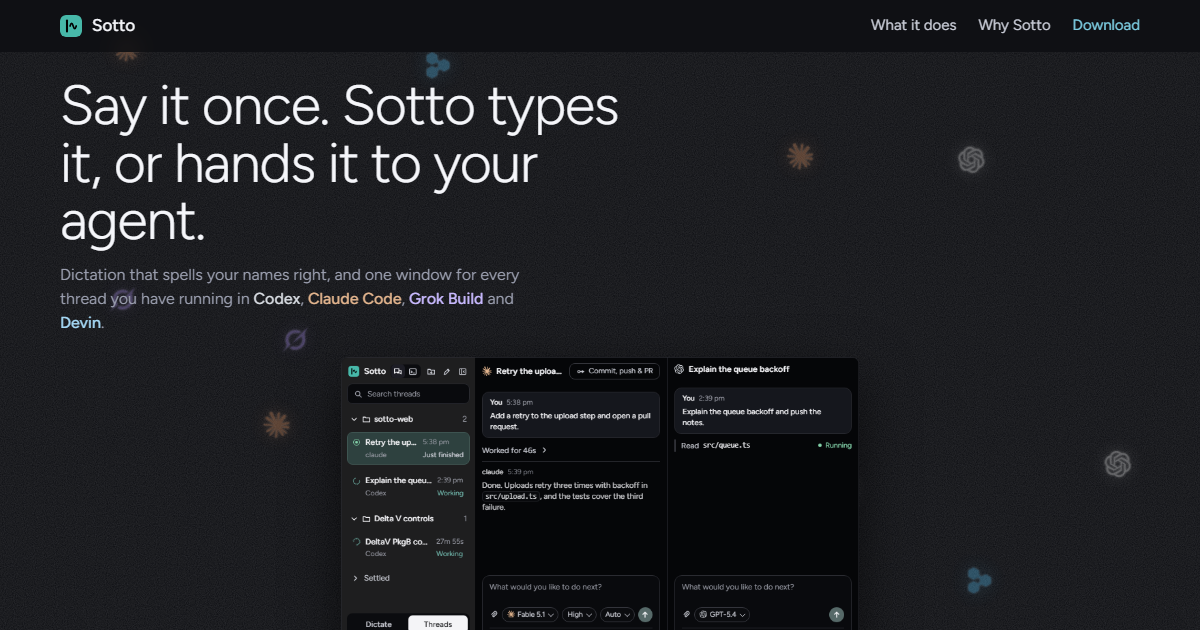
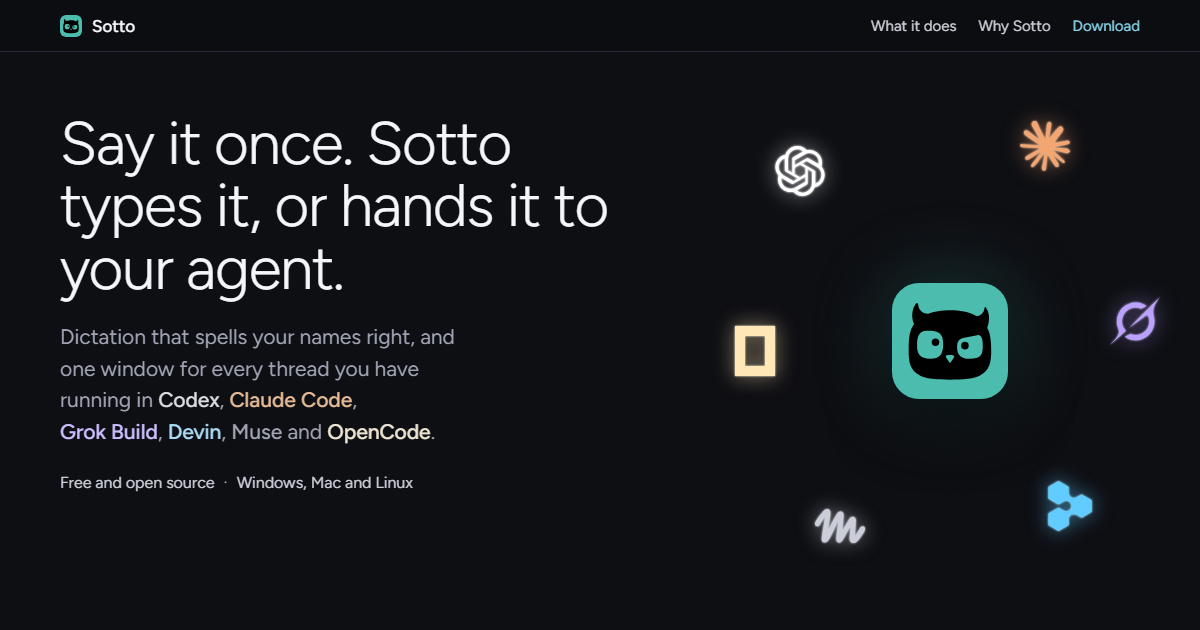
Show the owl and all six providers on the site
The app's mark is now the owl, so the site's icon, favicon, header, mock
app window, dictation pill and the hero's intro tile all draw it from
build/icon.svg, with the eyes and beak cut out so the tile shows through.
The intro opens the owl's eyes where it used to draw the old wave.

Muse and OpenCode join Codex, Claude Code, Grok Build and Devin everywhere
the page names or draws a provider: the lede, the meta and preview
descriptions, the sidebar vignette and the "Why Sotto" pair. Their marks are
the app's (ProviderMark.tsx). OpenCode takes the app's colour; Muse has no
colour token in the app, which draws its mark in muted text, so the site
uses its own muted grey for it.

The intro now flies in one mark per provider, each in a slot of its own
around the words rather than at random, so six marks read as six. The
faint sky of marks behind the page stays dark until the hero scrolls away,
so the first screen shows each provider once. The preview card is redrawn
with the owl and the six providers.

diff --git a/site/index.html b/site/index.html
@@ -4,11 +4,11 @@
 <meta charset="utf-8">
 <meta name="viewport" content="width=device-width, initial-scale=1">
 <title>Sotto: dictation that spells your names right, and one window for every coding agent</title>
-<meta name="description" content="Sotto is a free dictation app for Windows, with a Mac build on its way. Press a shortcut, speak, and it types at your cursor in any app, with your own names spelled right. It also keeps every thread you run in Codex, Claude Code, Grok Build and Devin in one window, and brings every permission to you. No account, no analytics, audio never saved.">
+<meta name="description" content="Sotto is a free dictation app for Windows, Mac and Linux. Press a shortcut, speak, and it types at your cursor in any app, with your own names spelled right. It also keeps every thread you run in Codex, Claude Code, Grok Build, Devin, Muse and OpenCode in one window, and brings every permission to you. No account, no analytics, audio never saved.">
 <meta name="theme-color" content="#0d0e12">
 <meta property="og:type" content="website">
 <meta property="og:title" content="Sotto: say it once. Sotto types it, or hands it to your agent.">
-<meta property="og:description" content="Free dictation for Windows that spells your names right, and one window for every thread you run in Codex, Claude Code, Grok Build and Devin. No account, no analytics, audio never saved.">
+<meta property="og:description" content="Free dictation for Windows, Mac and Linux that spells your names right, and one window for every thread you run in Codex, Claude Code, Grok Build, Devin, Muse and OpenCode. No account, no analytics, audio never saved.">
 <meta property="og:url" content="https://saysotto.com/">
 <meta property="og:image" content="https://saysotto.com/card.png">
 <meta property="og:image:width" content="1200">
@@ -48,15 +48,20 @@
   --stop: #ff6467;
   --pill-white: #f9fafe;
   --icon: #47b8a9; /* the app icon's teal, from icon.svg */
-  /* The app's own provider colours (tokens.css). */
+  /* The app's own provider colours (tokens.css). Muse has no token there: the app draws its mark in muted text,
+     so --muse is the muted grey above and its glow a lighter grey. */
   --codex: #d7dbe1;
   --claude: #e3b58e;
   --grok: #c9baff;
   --devin: #a5d8f5;
+  --muse: #9a9eae;
+  --opencode: #ece3d0;
   --codex-hot: #ffffff;
   --claude-hot: #f2a06b;
   --grok-hot: #b79bff;
   --devin-hot: #5cc8ff;
+  --muse-hot: #c8cbd6;
+  --opencode-hot: #ffe6b3;
   --col: 1120px;
   --gutter: clamp(20px, 5vw, 64px);
   --stage-scale: 1;
@@ -83,6 +88,8 @@ svg[data-mark] { fill: currentColor; }
 [data-mark="claude"] { color: var(--claude); }
 [data-mark="grok"] { color: var(--grok); }
 [data-mark="devin"] { color: var(--devin); }
+[data-mark="muse"] { color: var(--muse); }
+[data-mark="opencode"] { color: var(--opencode); }
 
 /* Background: a still field of film grain over everything, barely there. */
 .bg { position: fixed; inset: 0; z-index: 0; pointer-events: none; overflow: hidden; }
@@ -97,7 +104,8 @@ html[data-bg="grain"] .bg::after { opacity: 0.22; }
 
 
 /* Ambient sky: far provider marks drifting behind the whole page. */
-.sky { position: fixed; inset: 0; z-index: 0; pointer-events: none; overflow: hidden; }
+.sky { position: fixed; inset: 0; z-index: 0; pointer-events: none; overflow: hidden; opacity: 0; transition: opacity 900ms ease; }
+.sky.is-on { opacity: 1; }
 .sky .mote { width: 26px; height: 26px; }
 .sky .mote.is-born { opacity: 0.32; }
 
@@ -134,6 +142,8 @@ html[data-bg="grain"] .bg::after { opacity: 0.22; }
 .hero .lede b[data-mark="claude"] { color: var(--claude); }
 .hero .lede b[data-mark="grok"] { color: var(--grok); }
 .hero .lede b[data-mark="devin"] { color: var(--devin); }
+.hero .lede b[data-mark="muse"] { color: var(--muse); }
+.hero .lede b[data-mark="opencode"] { color: var(--opencode); }
 .hero-cta { display: flex; flex-wrap: wrap; justify-content: center; align-items: center; gap: 12px 18px; margin-top: 26px; }
 .hero-cta .btn { padding: 11px 18px; }
 .hero-cta .more { color: var(--text-2); font-size: 16px; }
@@ -153,7 +163,9 @@ html[data-bg="grain"] .bg::after { opacity: 0.22; }
 .mote [data-mark="claude"] { color: var(--claude-hot); }
 .mote [data-mark="grok"] { color: var(--grok-hot); }
 .mote [data-mark="devin"] { color: var(--devin-hot); }
-.mote[data-of="codex"] { --glow: var(--codex-hot); } .mote[data-of="claude"] { --glow: var(--claude-hot); } .mote[data-of="grok"] { --glow: var(--grok-hot); } .mote[data-of="devin"] { --glow: var(--devin-hot); }
+.mote [data-mark="muse"] { color: var(--muse-hot); }
+.mote [data-mark="opencode"] { color: var(--opencode-hot); }
+.mote[data-of="codex"] { --glow: var(--codex-hot); } .mote[data-of="claude"] { --glow: var(--claude-hot); } .mote[data-of="grok"] { --glow: var(--grok-hot); } .mote[data-of="devin"] { --glow: var(--devin-hot); } .mote[data-of="muse"] { --glow: var(--muse-hot); } .mote[data-of="opencode"] { --glow: var(--opencode-hot); }
 .mote.gather { transition: transform 1150ms cubic-bezier(0.6, 0, 0.2, 1), opacity 500ms ease 700ms; opacity: 0; }
 .mote.return { transition: transform 900ms cubic-bezier(0.3, 0, 0.2, 1); }
 .threads { position: absolute; inset: 0; width: 100%; height: 100%; }
@@ -183,11 +195,12 @@ html[data-bg="grain"] .bg::after { opacity: 0.22; }
   transition: transform 700ms cubic-bezier(0.2, 0.9, 0.3, 1.2), opacity 300ms ease, background-color 700ms ease, border-radius 700ms ease;
 }
 .sotto-mark svg { width: 100%; height: 100%; display: block; transition: opacity 350ms ease; }
-.sotto-mark .bar { fill: #000; }
-.sotto-mark .wave { stroke: #000; stroke-width: 7.5; stroke-linecap: round; fill: none; stroke-dasharray: 70; stroke-dashoffset: 70; }
+/* The owl, after build/icon.svg: its eyes and beak are holes, so the tile shows through; the pupils open last. */
+.sotto-mark .owl { fill: #000; }
+.sotto-mark .eye { fill: #000; transform-box: fill-box; transform-origin: center; transform: scaleY(0.12); }
 .sotto-mark.is-on { transform: scale(1); opacity: 1; }
-.sotto-mark.is-on .wave { animation: draw 700ms ease 250ms forwards; }
-@keyframes draw { to { stroke-dashoffset: 0; } }
+.sotto-mark.is-on .eye { animation: eyes-open 420ms ease 380ms forwards; }
+@keyframes eyes-open { to { transform: scaleY(1); } }
 .sotto-mark.open {
   transform: scale(7.95, 4.6);
   border-radius: 12px;
@@ -508,7 +521,7 @@ footer nav a { color: var(--muted); }
   html { scroll-behavior: auto; }
   .stage.is-floating, .row.is-running .ring, .pill.listening .bars i, .composer .text.is-typing::after { animation: none; }
   .mote, .sotto-mark, .app, .panes, .row, .you, .reply, .act, .ask, .pill, .hotkey, .notice, .cursor, .controls, .progress, .thinking, .v1 .line span { transition: none; }
-  .sotto-mark.is-on .wave { animation: none; stroke-dashoffset: 0; }
+  .sotto-mark.is-on .eye { animation: none; transform: none; }
 }
 </style>
 </head>
@@ -532,7 +545,7 @@ footer nav a { color: var(--muted); }
 
   <div class="hero-copy">
     <h1>Say it once. Sotto types it, or hands it to your agent.</h1>
-    <p class="lede">Dictation that spells your names right, and one window for every thread you have running in <b data-mark="codex">Codex</b>, <b data-mark="claude">Claude Code</b>, <b data-mark="grok">Grok Build</b> and <b data-mark="devin">Devin</b>.</p>
+    <p class="lede">Dictation that spells your names right, and one window for every thread you have running in <b data-mark="codex">Codex</b>, <b data-mark="claude">Claude Code</b>, <b data-mark="grok">Grok Build</b>, <b data-mark="devin">Devin</b>, <b data-mark="muse">Muse</b> and <b data-mark="opencode">OpenCode</b>.</p>
     <div class="hero-cta">
       <a class="btn primary" href="https://github.com/millZach/Sotto-releases/releases/latest" data-latest-installer>
         <svg class="os" viewBox="0 0 24 24" aria-hidden="true"><path d="M3 5.5l7.5-1v7H3zm8.5-1.2L21 3v8.5h-9.5zM3 12.5h7.5v7L3 18.5zm8.5 0H21V21l-9.5-1.3z"/></svg>
@@ -546,7 +559,7 @@ footer nav a { color: var(--muted); }
   <div class="stage-wrap">
     <div class="stage" id="stage" role="img" aria-label="A short demo of Sotto">
       <div class="sotto-mark" id="sottoMark" aria-hidden="true">
-        <svg viewBox="0 0 96 96"><rect class="bar" x="26" y="20" width="9" height="56" rx="4.5"/><path class="wave" d="M44 48c4.5-15 9-15 13.5 0s9 15 13.5 0"/></svg>
+        <svg viewBox="0 0 96 96"><path class="owl" fill-rule="evenodd" d="M18.24 33.84C16.32 30 15.84 22.8 19.2 18C19.8 16.8 21.12 15.6 21.72 18C21.96 21.6 24.6 25.44 30 25.44C38.4 22.32 57.6 20.4 69.84 27.36C73.2 27.12 76.32 24.6 76.56 20.64C76.8 19.56 77.76 19.56 78.24 21.36C80.4 24 81.36 31.44 78.72 37.2C80.64 39.6 82.08 45.6 82.08 55.2C82.32 66.24 80.28 71.76 74.4 75.6C69 79.8 57.6 80.04 48 80.04C38.28 80.04 26.88 79.8 21.48 75.6C15.6 71.76 13.56 66.24 13.8 55.2C13.68 44.4 14.88 38.4 18.24 33.84ZM20.76 52.2C20.64 43.8 22.56 39.48 28.8 39.48C36.24 39.24 42.48 40.08 42.36 50.4C42.36 58.8 39.6 62.64 31.8 62.64C24 62.76 20.64 59.4 20.76 52.2ZM53.88 53.4C53.88 48.6 55.2 46.56 58.8 45.6L70.56 43.2C73.68 42.6 75.12 45.6 75.12 51.6C75.24 60 73.2 62.76 64.2 62.76C57.6 62.76 53.88 60 53.88 53.4ZM45.6 59.88C47.04 59.52 48.96 59.52 50.4 59.88C51.6 60.12 51.72 61.08 51.12 61.8L48.6 65.64C48.24 66.24 47.76 66.24 47.4 65.64L44.88 61.8C44.28 61.08 44.4 60.12 45.6 59.88Z"/><circle class="eye" cx="36" cy="48.96" r="3.12"/><circle class="eye" cx="60.36" cy="51.84" r="3.12"/></svg>
       </div>
 
       <div class="app" id="app" aria-hidden="true">
@@ -682,6 +695,8 @@ footer nav a { color: var(--muted); }
         <div class="row" data-v><svg data-mark="codex"></svg><span class="t">Explain the queue backoff</span><span class="when">2:39 pm</span><span class="who">Codex</span><span class="state"></span></div>
         <div class="row" data-v><svg data-mark="grok"></svg><span class="t">Grok voice previews</span><span class="when">7:05 am</span><span class="who">Grok Build</span><span class="state"></span></div>
         <div class="row" data-v><svg data-mark="devin"></svg><span class="t">Footer links</span><span class="when">12:38 pm</span><span class="who">Devin</span><span class="state"></span></div>
+        <div class="row" data-v><svg data-mark="muse"></svg><span class="t">Tidy the settings copy</span><span class="when">11:52 am</span><span class="who">Muse</span><span class="state"></span></div>
+        <div class="row" data-v><svg data-mark="opencode"></svg><span class="t">Port the host check</span><span class="when">10:14 am</span><span class="who">OpenCode</span><span class="state"></span></div>
       </div>
     </div>
 
@@ -713,7 +728,7 @@ footer nav a { color: var(--muted); }
   <section id="why">
     <h2>Why Sotto.</h2>
     <div class="pairs">
-      <div class="pair"><p class="else">Four agent apps, four terminals.</p><p class="here">One sidebar, every thread.</p></div>
+      <div class="pair"><p class="else">Six agent apps, six terminals.</p><p class="here">One sidebar, every thread.</p></div>
       <div class="pair"><p class="else">Dictation that guesses at names.</p><p class="here">Your dictionary, every request.</p></div>
       <div class="pair"><p class="else">An account and telemetry.</p><p class="here">No account. No analytics. Audio never touches the disk.</p></div>
       <div class="pair"><p class="else">A tool that acts for you.</p><p class="here">A tool that asks.</p></div>
@@ -761,6 +776,8 @@ footer nav a { color: var(--muted); }
     claude: { viewBox: '0 0 256 257', path: 'm50.228 170.321 50.357-28.257.843-2.463-.843-1.361h-2.462l-8.426-.518-28.775-.778-24.952-1.037-24.175-1.296-6.092-1.297L0 125.796l.583-3.759 5.12-3.434 7.324.648 16.202 1.101 24.304 1.685 17.629 1.037 26.118 2.722h4.148l.583-1.685-1.426-1.037-1.101-1.037-25.147-17.045-27.22-18.017-14.258-10.37-7.713-5.25-3.888-4.925-1.685-10.758 7-7.713 9.397.649 2.398.648 9.527 7.323 20.35 15.75L94.817 91.9l3.889 3.24 1.555-1.102.195-.777-1.75-2.917-14.453-26.118-15.425-26.572-6.87-11.018-1.814-6.61c-.648-2.723-1.102-4.991-1.102-7.778l7.972-10.823L71.42 0 82.05 1.426l4.472 3.888 6.61 15.101 10.694 23.786 16.591 32.34 4.861 9.592 2.592 8.879.973 2.722h1.685v-1.556l1.36-18.211 2.528-22.36 2.463-28.776.843-8.1 4.018-9.722 7.971-5.25 6.222 2.981 5.12 7.324-.713 4.73-3.046 19.768-5.962 30.98-3.889 20.739h2.268l2.593-2.593 10.499-13.934 17.628-22.036 7.778-8.749 9.073-9.657 5.833-4.601h11.018l8.1 12.055-3.628 12.443-11.342 14.388-9.398 12.184-13.48 18.147-8.426 14.518.778 1.166 2.01-.194 30.46-6.481 16.462-2.982 19.637-3.37 8.88 4.148.971 4.213-3.5 8.62-20.998 5.184-24.628 4.926-36.682 8.685-.454.324.519.648 16.526 1.555 7.065.389h17.304l32.21 2.398 8.426 5.574 5.055 6.805-.843 5.184-12.962 6.611-17.498-4.148-40.83-9.721-14-3.5h-1.944v1.167l11.666 11.406 21.387 19.314 26.767 24.887 1.36 6.157-3.434 4.86-3.63-.518-23.526-17.693-9.073-7.972-20.545-17.304h-1.36v1.814l4.73 6.935 25.017 37.59 1.296 11.536-1.814 3.76-6.481 2.268-7.13-1.297-14.647-20.544-15.1-23.138-12.185-20.739-1.49.843-7.194 77.448-3.37 3.953-7.778 2.981-6.48-4.925-3.436-7.972 3.435-15.749 4.148-20.544 3.37-16.333 3.046-20.285 1.815-6.74-.13-.454-1.49.194-15.295 20.999-23.267 31.433-18.406 19.702-4.407 1.75-7.648-3.954.713-7.064 4.277-6.286 25.47-32.405 15.36-20.092 9.917-11.6-.065-1.686h-.583L44.07 198.125l-12.055 1.555-5.185-4.86.648-7.972 2.463-2.593 20.35-13.999-.064.065Z' },
     devin: { viewBox: '48 48 330 330', path: 'M70 159.333V91.3471C70 88.3592 71.594 85.5983 74.1816 84.1044L133.043 50.1205C135.631 48.6265 138.819 48.6265 141.407 50.1205L200.269 84.1044C202.856 85.5983 204.45 88.3592 204.45 91.3471V126.068C204.708 137.606 210.806 148.734 221.531 154.926C232.256 161.117 244.942 160.834 255.063 155.289L285.132 137.929C287.719 136.435 290.907 136.435 293.495 137.929L352.357 171.913C354.944 173.406 356.538 176.167 356.538 179.155V247.123C356.538 250.111 354.944 252.872 352.357 254.366L293.495 288.35C290.907 289.844 287.719 289.844 285.132 288.35L255.306 271.13C245.146 265.456 232.344 265.117 221.534 271.358C210.809 277.55 204.711 288.678 204.453 300.215V334.926C204.453 337.914 202.859 340.675 200.271 342.169L141.41 376.153C138.822 377.647 135.634 377.647 133.046 376.153L74.1845 342.169C71.5969 340.675 70.0028 337.914 70.0028 334.926V266.959C70.0029 263.971 71.5969 261.21 74.1845 259.716L133.046 225.732C135.634 224.238 138.822 224.238 141.41 225.732L171.547 243.132C181.656 248.638 194.306 248.906 205.005 242.729C215.815 236.488 221.922 225.231 222.088 213.595C221.83 202.057 215.732 189.737 205.008 183.545C194.283 177.353 181.597 177.636 171.476 183.181L141.269 200.72C138.67 202.229 135.461 202.228 132.864 200.716L74.1576 166.562C71.5835 165.065 70 162.311 70 159.333Z' },
     grok: { viewBox: '0 0 24 24', path: 'M9.26905 15.284L17.2479 9.36086C17.6391 9.07047 18.1981 9.18374 18.3845 9.63478C19.3655 12.0135 18.9272 14.8721 16.9755 16.8349C15.0238 18.7976 12.3082 19.228 9.8261 18.2477L7.1146 19.5102C11.0037 22.1834 15.7263 21.5223 18.6774 18.5525C21.0182 16.1985 21.7432 12.9897 21.0653 10.0961L21.0714 10.1023C20.0884 5.85143 21.3131 4.15233 23.8218 0.677913C23.8812 0.595532 23.9406 0.513151 24 0.428711L20.6987 3.74866V3.73836L9.267 15.2861M7.62249 16.7237C4.83113 14.0422 5.3124 9.89222 7.69417 7.49905C9.45541 5.72786 12.341 5.00497 14.86 6.06768L17.5653 4.81138C17.0779 4.45714 16.4533 4.07613 15.7365 3.80839C12.4966 2.46764 8.6178 3.13492 5.98413 5.78141C3.45081 8.32904 2.65415 12.2463 4.02219 15.5889C5.04412 18.0871 3.36889 19.8541 1.68137 21.6377C1.08337 22.2699 0.483318 22.9022 0 23.5716L7.62045 16.7257' },
+    muse: { viewBox: '0 0 100 100', path: 'M24.6257 16.1214C28.2365 16.1214 30.8187 18.9408 30.8187 23.3643C30.8185 27.7868 30.1055 31.7765 28.9225 40.2466C28.0743 46.1813 26.62 55.2418 26.0132 59.0088C27.1782 56.7815 29.9074 51.5757 30.3914 50.5982C36.1081 39.061 42.0657 28.7544 43.7826 26.0254C46.0594 22.382 48.062 20.9229 51.1597 20.9229C52.7685 20.923 54.6826 21.7357 55.6315 22.819C56.9178 24.2895 57.1859 26.6602 57.1411 29.244C57.0738 33.2073 56.5599 39.5264 55.8553 46.5698C55.5416 49.7057 54.9365 56.1066 54.5288 60.4004C58.1883 53.8532 64.9609 41.8109 67.6921 37.6058C70.0727 33.9402 72.466 31.5797 75.6836 31.5796C78.4595 31.5796 81.8809 33.5416 81.6772 38.7573C81.3774 46.4556 80.2673 63.2232 79.7607 70.7479C83.1662 65.7913 87.6377 58.4543 89.3148 55.6966C91.0104 52.908 92.75 50.6542 95.3898 50.5778C98.0987 50.4995 99.913 52.341 99.9959 55.1839C100.078 58.0277 98.3835 61.2256 96.1344 64.856C93.6937 68.7957 90.9621 73.0123 87.6383 76.9491C84.3148 80.8856 81.2604 83.8782 76.5991 83.8786C72.4243 83.8786 69.4869 81.1043 69.283 76.0254C69.1768 73.364 69.6804 67.6405 70.0602 63.1673C70.5 57.9875 71.0315 52.9861 71.403 49.6786C67.7337 56.3979 60.0101 70.4676 56.5348 75.9603C53.1343 81.3339 51.4774 83.2269 47.8882 83.2275C44.2977 83.2275 42.7226 80.6416 42.6717 76.7497C42.6142 72.5285 45.7852 47.1821 46.8587 38.737C45.1183 42.4616 40.839 51.6056 38.1551 57.0435C35.5587 62.3055 31.204 71.3978 28.0436 76.6357C25.7668 80.4094 23.2092 83.2273 19.4173 83.2275C15.6252 83.2275 13.4847 80.6784 13.4847 76.5788C13.4847 72.4794 14.6716 65.6492 15.9465 57.1777C16.5839 53.0781 17.3108 48.6133 18.1315 43.8761C18.7324 40.448 19.7764 34.4169 20.4183 30.7129C17.502 35.2539 12.2536 43.4278 10.6567 45.8903C8.88113 48.6291 7.28747 50.626 4.64681 50.6266C1.7329 50.6266 0.000532901 48.3522 0 45.7113C0 43.0703 1.34323 41.0344 3.52376 37.4512C6.32403 32.8465 11.3578 26.57 14.1154 23.2747C17.3656 19.3912 20.6139 16.1219 24.6257 16.1214Z' },
+    opencode: { viewBox: '0 0 32 40', path: 'M24 8H8V32H24V8ZM32 40H0V0H32V40Z' },
   }
   const NS = 'http://www.w3.org/2000/svg'
   const markSvg = (id, el) => {
@@ -776,30 +793,49 @@ footer nav a { color: var(--muted); }
   const field = $('field'), threads = $('threads'), stage = $('stage'), sky = $('sky')
   const app = $('app'), sotto = $('sottoMark'), cursor = $('cursor')
   const rnd = (a, b) => a + Math.random() * (b - a)
-  const ids = ['codex', 'claude', 'grok', 'devin']
+  const ids = ['codex', 'claude', 'grok', 'devin', 'muse', 'opencode']
 
-  // ---------- Motes: near ones in the hero gather; far ones drift behind the whole page ----------
+  // ---------- Motes: one mark per provider in the hero gathers into the owl; a faint sky drifts behind the rest of the page ----------
   const motes = []
-  function spawn(parent, far, i) {
+  function spawn(parent, far, id) {
     const el = document.createElement('div')
-    el.className = 'mote'; el.dataset.of = ids[i % 4]
-    el.appendChild(markSvg(ids[i % 4]))
+    el.className = 'mote'; el.dataset.of = id
+    el.appendChild(markSvg(id))
     parent.appendChild(el)
-    motes.push({ el, far, bx: rnd(0.03, 0.95), by: rnd(0.05, 0.9), r: rnd(16, 48), s: rnd(0.00025, 0.0006), ph: rnd(0, 6.28), s2: rnd(0.0002, 0.0005), gathered: false, x: 0, y: 0 })
+    const m = { el, far, bx: rnd(0.03, 0.95), by: rnd(0.05, 0.9), r: far ? rnd(16, 48) : rnd(12, 26), s: rnd(0.00025, 0.0006), ph: rnd(0, 6.28), s2: rnd(0.0002, 0.0005), gathered: false, x: 0, y: 0 }
+    motes.push(m)
+    return m
   }
-  for (let i = 0; i < 8; i++) spawn(field, false, i)
-  for (let i = 0; i < 10; i++) spawn(sky, true, i)
-  // Hero motes keep clear of the words: each gets a home outside the copy, padded by its drift.
+  const shuffled = (list) => list.map((v) => [Math.random(), v]).sort((p, q) => p[0] - q[0]).map(([, v]) => v)
+  const heroMotes = shuffled(ids).map((id) => spawn(field, false, id))
+  ids.forEach((id) => spawn(sky, true, id))
+  // Each hero mark gets a slot of its own on the first screen, clear of the words and padded by its drift: two down
+  // each side of the copy and two below it, or, where the sides are too narrow, a three-by-two grid below the copy.
+  // Homes are in pixels from the hero's top left, since the hero grows once the demo below it is sized.
   {
-    const f = field.getBoundingClientRect(), pad = 96
-    const boxes = [...document.querySelectorAll('.hero-copy > *')].map((el) => el.getBoundingClientRect())
-    const clear = (m) => boxes.every((c) => { const x = f.left + m.bx * f.width, y = f.top + m.by * f.height; return x + 50 < c.left - pad || x > c.right + pad || y + 50 < c.top - pad || y > c.bottom + pad })
-    for (const m of motes) {
-      if (m.far) continue
-      for (let k = 0; k < 60 && !clear(m); k++) { m.bx = rnd(0.03, 0.95); m.by = rnd(0.05, 0.9) }
-      if (!clear(m)) m.el.hidden = true
+    const f = field.getBoundingClientRect(), W = f.width, size = 50, padX = 90, padY = 64
+    const range = document.createRange()
+    const words = [...document.querySelectorAll('.hero h1, .hero .lede, .hero-cta .track, .hero-cta .btn, .hero-cta .more, .hero-cta .fine, .hero-cta .unsupported')].map((el) => { range.selectNodeContents(el); return range.getBoundingClientRect() }).filter((r) => r.width)
+    const left = Math.min(...words.map((r) => r.left)) - f.left, right = Math.max(...words.map((r) => r.right)) - f.left
+    const bottom = Math.max(...words.map((r) => r.bottom)) - f.top
+    const top = 28, floor = Math.max(bottom + padY + 2 * size + 170, Math.min(f.height, innerHeight - f.top) - size - 28)
+    const slots = []
+    if (left - padX - size - 0.03 * W >= 60) {
+      const mid = (top + floor) / 2
+      for (const [x0, x1] of [[0.03 * W, left - padX - size], [right + padX, 0.97 * W - size]]) slots.push([x0, x1, top, mid - size], [x0, x1, mid, floor])
+      const centre = (left + right) / 2
+      slots.push([left, centre - size - padX / 2, bottom + padY, floor], [centre + padX / 2, right - size, bottom + padY, floor])
+    } else {
+      const y0 = bottom + padY, rowH = Math.max(size, (floor - y0) / 2), colW = (0.94 * W) / 3
+      for (let row = 0; row < 2; row++) for (let col = 0; col < 3; col++) slots.push([0.03 * W + col * colW + 10, 0.03 * W + (col + 1) * colW - size - 10, y0 + row * rowH, y0 + (row + 1) * rowH - size])
     }
+    heroMotes.forEach((m, i) => {
+      const [x0, x1, y0, y1] = slots[i]
+      m.home = [rnd(x0, Math.max(x0, x1)), rnd(y0, Math.max(y0, y1))]
+    })
   }
+  // The sky stays dark while the hero is in view, so the first screen shows each provider once.
+  new IntersectionObserver(([e]) => sky.classList.toggle('is-on', e.intersectionRatio < 0.4), { threshold: [0, 0.4, 1] }).observe($('top'))
   let holdUntil = 0
   function drift(now) {
     const W = field.clientWidth, H = field.clientHeight, SW = innerWidth, SH = innerHeight
@@ -807,8 +843,9 @@ footer nav a { color: var(--muted); }
     for (const m of motes) {
       if (m.gathered) continue
       const w = m.far ? SW : W, h = m.far ? SH : H
-      m.x = m.bx * w + Math.sin(now * m.s + m.ph) * m.r * 1.6
-      m.y = m.by * h + Math.cos(now * m.s2 + m.ph) * m.r
+      const [hx, hy] = m.home || [m.bx * w, m.by * h]
+      m.x = hx + Math.sin(now * m.s + m.ph) * m.r * 1.6
+      m.y = hy + Math.cos(now * m.s2 + m.ph) * m.r
       if (now >= holdUntil) m.el.style.transform = `translate(${m.x}px, ${m.y}px)`
       if (!m.far) near.push(m)
     }
@@ -968,7 +1005,7 @@ footer nav a { color: var(--muted); }
 
   motes.forEach((m, i) => setTimeout(() => m.el.classList.add('is-born'), 120 + i * 90))
   if (reduced) {
-    motes.forEach((m) => { const w = m.far ? innerWidth : field.clientWidth, h = m.far ? innerHeight : field.clientHeight; m.el.style.transform = `translate(${m.bx * w}px, ${m.by * h}px)`; m.el.classList.add('is-born') })
+    motes.forEach((m) => { const w = m.far ? innerWidth : field.clientWidth, h = m.far ? innerHeight : field.clientHeight; const [hx, hy] = m.home || [m.bx * w, m.by * h]; m.el.style.transform = `translate(${hx}px, ${hy}px)`; m.el.classList.add('is-born') })
     seek(INTRO_END, false)
   } else seek(START, true)
   last = performance.now()
